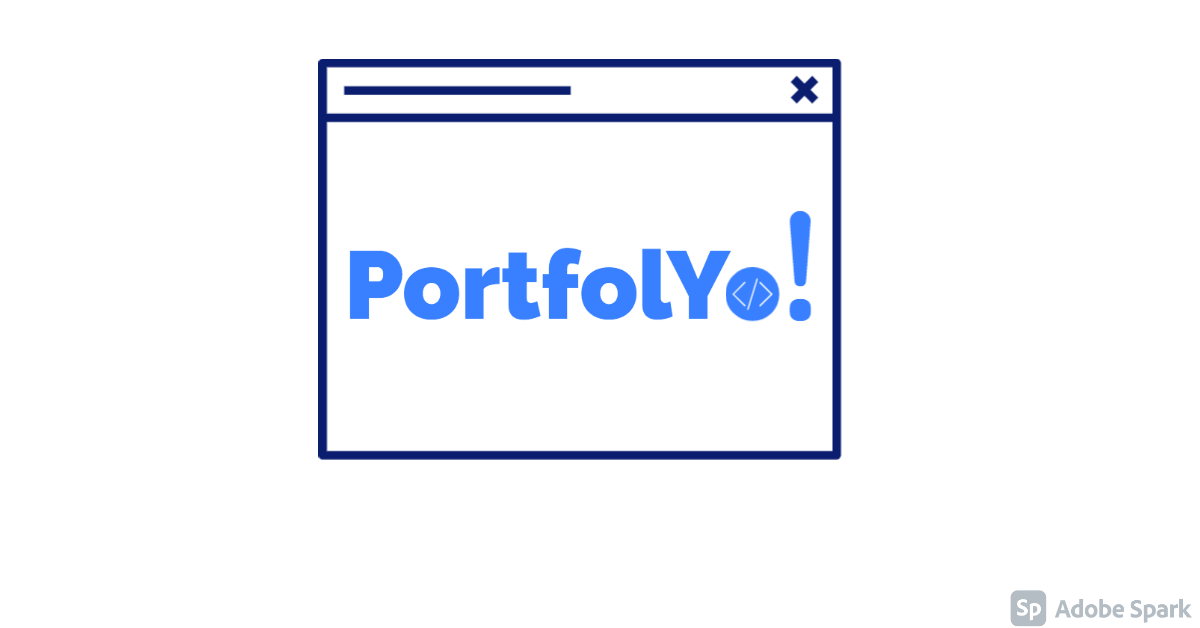
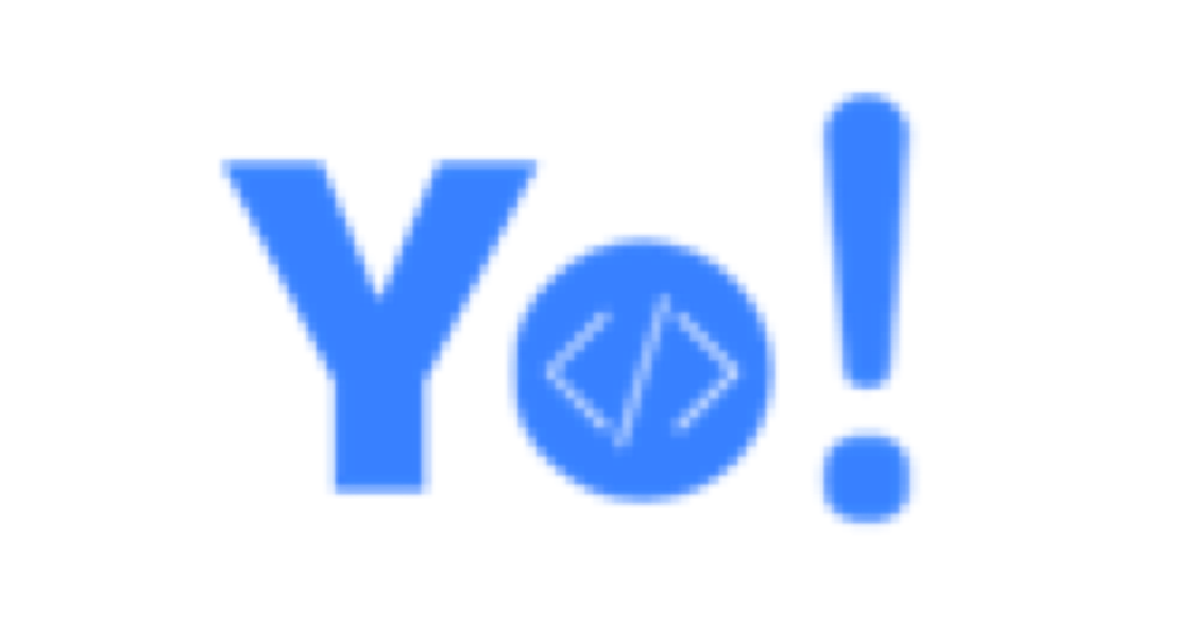
yalla

Changed region(s): [[0.185, 0.0908, 0.7708, 0.8471], [0.8325, 0.9379, 1.0, 0.9984]]

diff --git a/client/src/components/UpdateProjectInfo/UpdateProjectInfo.js b/client/src/components/UpdateProjectInfo/UpdateProjectInfo.js
@@ -196,7 +196,7 @@ const UpdateProjectInfo = () => {
             </IonModal>
             <IonCardHeader>
                 <IonToolbar>
-                    <IonTitle>Update your project</IonTitle>
+                    <IonTitle style={{ fontSize: '32px' }}  >Update your project</IonTitle>
                     <img src={projectPic.picData} alt="no pic in server" />
                 </IonToolbar>
             </IonCardHeader>
@@ -211,13 +211,15 @@ const UpdateProjectInfo = () => {
             </IonCardContent>
             <IonItem class='ion-padding'>
                 <IonLabel position='stacked'>Port</IonLabel>
-                <IonInput onIonChange={e => setField(dataOfProjectDetails, 'port', e.detail.value)} type='number' />
+                <IonInput value={5000} onIonChange={e => setField(dataOfProjectDetails, 'port', e.detail.value)} type='number' />
             </IonItem>
             <IonItem style={{ width: '100%' }}>
                 <IonLabel position="stacked">Project type</IonLabel>
                 <IonSelect value={value} defaultChecked={true} defaultValue={dataOfProjectDetails.projectType} placeholder="Select One" ref={projectTypeSelectRef} onIonChange={(e) => setField(dataOfProjectDetails, "projectType", e.detail.value)}>
-                    <IonSelectOption value="python">python</IonSelectOption>
-                    <IonSelectOption value="node">node.js</IonSelectOption>
+                    <IonSelectOption value="python">Python</IonSelectOption>
+                    <IonSelectOption value="node">Node.js</IonSelectOption>
+                    <IonSelectOption value="c">C</IonSelectOption>
+                    <IonSelectOption value="java-maven">Java</IonSelectOption>
                 </IonSelect>
             </IonItem>
             <br></br>

diff --git a/client/src/pages/PersonalZonePage/PersonalZonePage.js b/client/src/pages/PersonalZonePage/PersonalZonePage.js
@@ -1,5 +1,5 @@
 import React from 'react';
-import { IonContent, , IonPage, IonTabButton, IonLabel, IonTitle, IonTabs, IonTabBar, IonRouterOutlet, IonIcon, IonButton, IonFab, IonFabButton } from '@ionic/react';
+import { IonContent, IonPage, IonTabButton, IonLabel, IonTitle, IonTabs, IonTabBar, IonRouterOutlet, IonIcon, IonButton, IonFab, IonFabButton } from '@ionic/react';
 // import allComponents from '../components'
 import { useRouteMatch } from "react-router-dom";
 import '../../pages/LogInPage/LogInPage.scss'
@@ -11,6 +11,7 @@ import pages from '../Pages.js'
 import { createBrowserHistory } from 'history'
 import UpdateProjectInfo from '../../components/UpdateProjectInfo/UpdateProjectInfo';
 import { logOut } from 'ionicons/icons'
+import agada from '../../resources/Portfolyo.png'
 
 const PersonalZonePage = () => {
 
@@ -38,7 +39,9 @@ const PersonalZonePage = () => {
                     </IonRouterOutlet>
                     <IonTabBar slot="top">
                         <IonTabButton tab="" className='title-portfolyo' href={`/`}>
-                            <IonTitle size="large">PortfolYo!</IonTitle>
+                            <IonTitle size="large">
+                                <img src={agada}/>
+                            </IonTitle>
                         </IonTabButton>
                         <IonTabButton tab="main" href={`${match.url}/main`}>
                             <IonLabel>Home</IonLabel>

diff --git a/client/src/pages/ProjectPage/ProjectPage.js b/client/src/pages/ProjectPage/ProjectPage.js
@@ -12,6 +12,7 @@ import './ProjectPage.scss'
 import { serverRunProject, getProjectData } from '../../services/projectService'
 import { createBrowserHistory } from 'history'
 import pages from "../../pages/Pages";
+import agada from '../../resources/Portfolyo.png'
 
 const ProjectPage = () => {
     const [projectData, setProjectData] = useState()
@@ -55,7 +56,9 @@ const ProjectPage = () => {
                     </IonRouterOutlet>
                     <IonTabBar slot="top">
                         <IonTabButton className='title-portfolyo' >
-                            <IonTitle onClick={() => history.push('/')} size="large">PortfolYo!</IonTitle>
+                            <IonTitle onClick={() => history.push('/')} size="large">
+                                <img src={agada}/>
+                            </IonTitle>
                         </IonTabButton>
                         <IonTabButton tab="home" href={`${match.url}/home`}>
                             <IonLabel>Home</IonLabel>

diff --git a/client/src/pages/ProfilePage/ProfilePage.js b/client/src/pages/ProfilePage/ProfilePage.js
@@ -13,6 +13,8 @@ import './ProfilePage.scss'
 import { getProfileData } from '../../services/profileService'
 import { useHistory } from 'react-router-dom';
 import pages from '../Pages'
+import agada from '../../resources/PortfolYo.png'
+
 const ProfilePage = () => {
 
     let { id } = useParams();
@@ -48,7 +50,9 @@ const ProfilePage = () => {
                     </IonRouterOutlet>
                     <IonTabBar slot="top">
                         <IonTabButton className='title-portfolyo' >
-                            <IonTitle onClick={() => history.push('/')} size="large">PortfolYo!</IonTitle>
+                            <IonTitle onClick={() => history.push('/')} size="large">
+                                <img src={agada}/>
+                            </IonTitle>
                         </IonTabButton>
                         <IonTabButton tab="home" href={`${match.url}/home`}>
                             <IonLabel>Home</IonLabel>

diff --git a/client/src/components/personalZoneMainCard/PersonalZoneMainCard.js b/client/src/components/personalZoneMainCard/PersonalZoneMainCard.js
@@ -2,14 +2,13 @@ import React from 'react'
 import { IonContent, IonCard, IonCardContent, IonCardHeader} from '@ionic/react'
 import { withRouter } from 'react-router'
 import '../sharedStyles.scss'
-
 const PersonalZoneMainCard = () => {
     return (
         <IonContent>
             <IonCard>
                 <IonCardHeader>
                     <ion-text color="primary">
-                        <h1>ProfolYo!</h1>
+                        <h1>PortfolYo!</h1>
                     </ion-text>
                 </IonCardHeader>
 

diff --git a/client/src/pages/ErrorPage/errorPage.js b/client/src/pages/ErrorPage/errorPage.js
@@ -13,7 +13,7 @@ const ErrorPage = () => {
         <IonPage>
             <IonHeader>
                 <IonToolbar>
-                    <IonTitle className='big-title-portfolyo'><img src={pic} ></img></IonTitle>
+                    <IonTitle className='big-title-portfolyo'></IonTitle>
                 </IonToolbar>
             </IonHeader>
             <IonContent color="primary">

diff --git a/client/src/pages/Pages.js b/client/src/pages/Pages.js
@@ -7,4 +7,4 @@ export default {
     registerRoute: `/register`,
     errorRoute: `/error`
 }
-export const serverPath = '51.105.98.65'
+export const serverPath = '10.0.0.11'

diff --git a/client/public/index.html b/client/public/index.html
@@ -1,5 +1,6 @@
 <!DOCTYPE html>
 <html lang="en">
+<link rel="shortcut icon" href="./favicon.ico">
 
 <head>
     <meta charset="utf-8">
